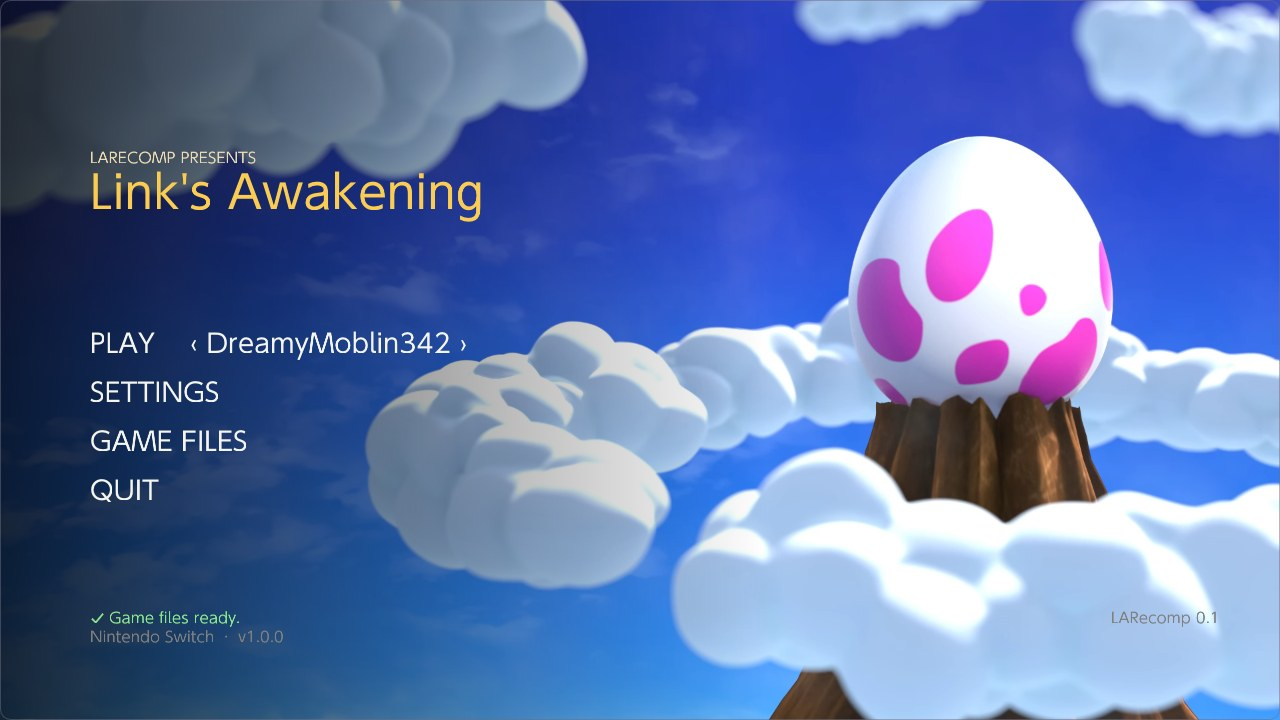
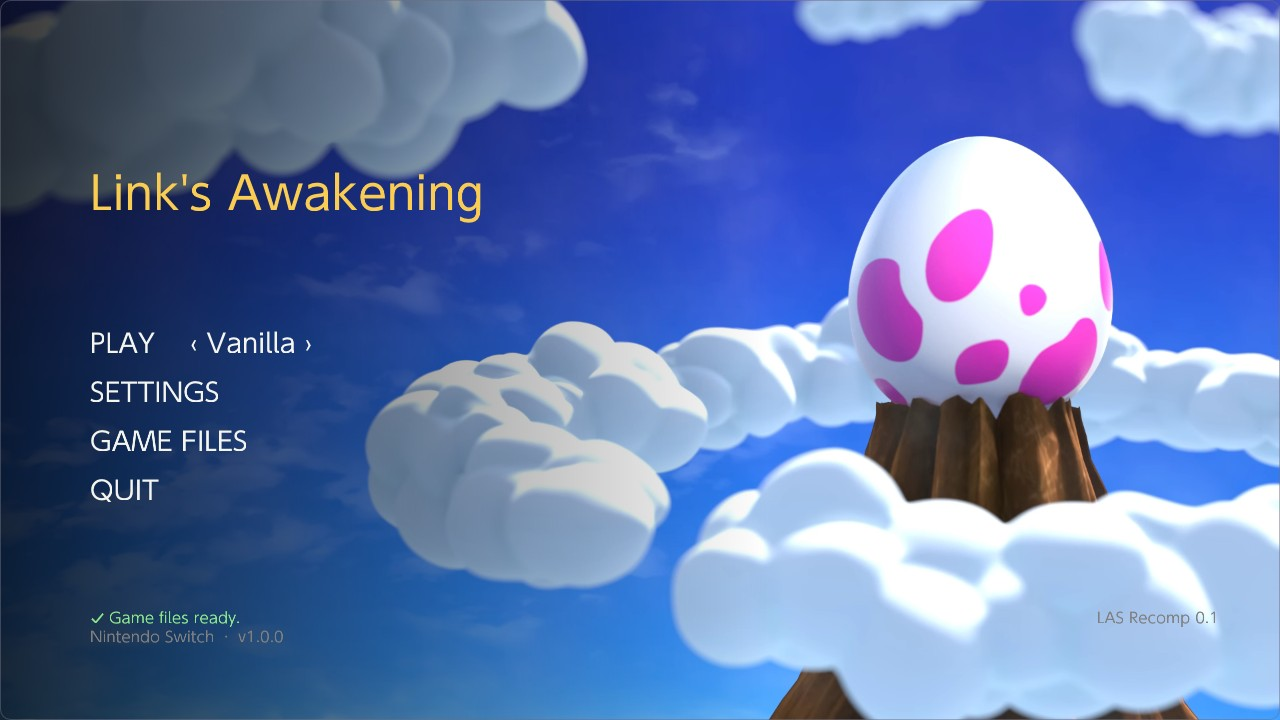
README update, MIT license, new start screen screenshot, MetalFX default on macOS

diff --git a/runtime/settings.c b/runtime/settings.c
@@ -24,6 +24,9 @@ Settings g_settings = {
     .inv_keys = true,
     .tracker = true,
     .diff_damage = 1.0f,
+#ifdef __APPLE__
+    .upscaler = UPSCALE_METALFX,  // (MetalFX on macOS by default)
+#endif
 };
 
 void settings_load(void) {

diff --git a/README.md b/README.md
@@ -9,10 +9,12 @@
 > As with anything on the internet, you run the code at your own discretion.
 
 **LAS Recomp** is a static recompilation of *The Legend of Zelda: Link's Awakening* (Nintendo Switch, 2019) into a
-native desktop application. The game's original program is translated ahead of time into C and compiled for your
-computer, so it runs natively - no emulator - with its own renderer, audio, input and a built-in randomizer.
+native Windows and macOS application.
 
-Currently it runs on **macOS (Apple Silicon Only, Metal)** and **Windows x86_64**, Windows on ARM and Linux releases are planned.
+> [!NOTE]
+> Currently supported Platforms:
+> macOS - Apple Silicon Only, Metal Graphics Backend + MetalFX
+> Windows - x86 Only, Vulkan Graphics Backend
 
 ![Mabe Village in a 21:9 window: the unlocked aspect ratio shows more of the island](docs/ultrawide.jpg)
 
@@ -25,26 +27,51 @@ Currently it runs on **macOS (Apple Silicon Only, Metal)** and **Windows x86_64*
 
 ![The start screen: choose vanilla or a randomizer seed, set up your game files, settings](docs/start_screen.jpg)
 
-## Features
-
-**Runs natively**
-- 60 fps, any window size and resolution, fullscreen
-- **Unlocked aspect ratio**: wider (or taller) windows show more of the island, up to ultrawide; houses and dungeons
-  keep their framing. The original 16:9 framing is one option away.
-- Start screen: play vanilla or any randomizer seed, set up game files from your own dump, import fonts
-- In-game overlay menu (F1, or Minus + Plus on a controller): display, audio, save editor, randomizer, warp, cheats,
-  difficulty presets, controls - and back to the title screen
-- Keyboard and controller support
-
-**Randomizer** (built on top of [LAS-Randomizer](https://github.com/Owen-Splat/LAS-Randomizer))
-- Generate and play seeds without leaving the game; spoiler log and readable walkthrough viewer, check tracker on
-  the map, inventory overlay with every dungeon's keys
-- Randomizer Options go here.
+## Project Discord
+https://discord.gg/DhrgdYqdcY
 
 ## Status
 
-Work in progress. The game is playable from start to finish; rough edges remain, and the generated dungeons are
-experimental. The running development log - every finding, fix and plan - is [`notes/PLAN.md`](notes/PLAN.md).
+This is a 0.1 alpha release. That means bug are likely, crashes could occur, randomizer seeds could possibly be unsolvable (dungeon room shuffle modes are especially experimental at this point), some graphics issue remain (especially in wide and ultrawide aspect ratios), this is a work in progress thus the alpha designation. Please use the Discord for discussing possible randomizer logic issues and submitting bug reports.
+
+## Features
+
+**Runs natively**
+- **This is not emulation.** Runs native on Windows and macOS using static recompilation of the switch code. 
+- Unlocked aspect ratio: wider (or taller) windows show more of the island, up to ultrawide; houses and dungeons
+  keep their framing. The original 16:9 framing is one option away.
+- Start screen: play vanilla or any randomizer seed, set up game files from your own dump, import fonts.
+- -Switch games use fonts built into the Switch operating system for some text. Some sensible replacements were picked but optionally you may setup the Switch fonts for an authentic look. Switch fonts are Nintendo IP, you must provide them from your own hardware.
+- In-game overlay menu (F1, or Minus + Plus on a controller)
+- Keyboard and controller support
+- Apple MetalFX upscaler for macOS builds. Default.
+- Internal resolution adjustments. Pick how high you want the resolution to be or cut it down, match the display and dynamic resolution options. When combined with the MetalFX upscaler on Macs even a Macbook Air should be able to handle this easily with the right settings. Bilenear upscaling is the only option on Windows currently.
+
+**Randomizer**
+- In game seed generator.
+- Seed system for sharing or reproducing exact seeds.
+- Per seed save games
+- Full item shuffle.
+- Trade Quest shuffle.
+- Disable Acorn/Piece of Power drops.
+- Bombs / Magic Powder shuffle.
+- Environment Randomizer - Randomizes in game environmental effects.
+- Music Randomizer
+- Potsanity - Every pot is a check. Pots are golden until checks so you visibly know what pots you've checked.
+- Bushsanity - Every single cuttable bush (not the grass) is a check. Like pots bushes are golden until checked for the first time.
+- Digsanity - A truly insane setting which makes every diggable tile on the overworld a check, holes stay dug permanently so you know where you've dug. Made for shovel enthusiasts. 
+- Keysanity - Keys can be found anywhere for any dungeon.
+- Shopsanity - Every item in the shop shuffled. Random prices, or just steal it.
+- Trendsantiy - Full Trendy Game randomization
+- Pets - Ghost, Marin (unlocks Dessert, open dessert an option and Marin not in the pool), Rooster (In Logic for Feather checks, including in dungeons if enabled), Ghost (Find the Ghost drop to unlock grave check)
+- Entrance Randomizer - Shuffles all entrances. Includes a decoupled option.
+- Dungeon Room Shuffler - Shuffles all dungeon rooms creating unique custom dungeons every seed. Three modes:
+- -Coherent: Dungeon rooms are shuffled but connecting rooms are lined up, to make this work in logic dungeons use duplicate rooms sometimes (as little as possible) to maintain a workable logical dungeon.
+- -Chaos: Dungeon rooms are shuffled but don't need to make sense. Walking north may lead you to door from another direction.
+- -Madness: Dungeon rooms are shuffled in a way that doesn't need to make sense AND are uncoupled creating nightmares to navigate.
+- -Optionally the map can show what's connected to what as you explore or in full when you find the in game map.
+- Inventory screen tracks keys and trade items for individual dungeons so you can see at a glance what you have keys for or what trade items you have. 
+- Built in check tracker on overworld map (optional)
 
 ## Building from source
 
@@ -65,16 +92,14 @@ Requirements (macOS on Apple Silicon): Xcode command line tools (clang), [Homebr
 changes) in `third_party/LAS-Randomizer` under the MIT license. Huge thanks to its authors and community:
 - **Owen_Splat** - LAS-Randomizer (https://github.com/Owen-Splat/LAS-Randomizer)
 - **Glan** - created the original early builds of the randomizer (https://github.com/la-switch/LAS-Randomizer)
-- **j_im** - created the original tracker for the randomizer
-- **Br00ty** - maintains and updates the tracker
 - **ProfessorLaw** - additional programming
-- **theboy181** - blur removal patch
 - and everyone who has reported bugs, given feedback or contributed to LAS-Randomizer
 
 **Libraries and tools**
 - [SDL 3](https://libsdl.org) - windowing, input, audio (zlib license)
 - [FFmpeg](https://ffmpeg.org) - movie playback (LGPL)
 - [Dear ImGui](https://github.com/ocornut/imgui) - overlay menu and start screen (MIT)
+- [Vulkan Memory Allocator](https://github.com/GPUOpen-LibrariesAndSDKs/VulkanMemoryAllocator) - Windows renderer (MIT)
 - [hactool](https://github.com/SciresM/hactool) by SciresM - game file extraction (ISC)
 - [oead](https://github.com/zeldamods/oead) and [evfl](https://github.com/zeldamods/evfl) - Nintendo file formats, used by LAS-Randomizer
 - [Capstone](https://www.capstone-engine.org) - disassembly in the development tools
@@ -87,4 +112,10 @@ LAS Recomp is a fan project. It is not affiliated with, endorsed by or sponsored
 and *Link's Awakening* are trademarks of Nintendo. No Nintendo code or assets are distributed in this repository;
 you must provide your own legally obtained copy of the game to play. 
 
-A license for LAS Recomp's own code has not been chosen yet. Third-party components keep their own licenses.
+## License
+
+LAS Recomp's own code (the recompiler tools, the runtime, the randomizer additions) is open source under the
+[MIT License](LICENSE). Third-party components keep their own licenses: LAS-Randomizer (MIT), Dear ImGui (MIT),
+Vulkan Memory Allocator (MIT), SDL 3 (zlib), FFmpeg (LGPL 2.1+, linked dynamically), hactool (ISC), oead / evfl (used by
+the randomizer's Python environment, under their own licenses). The license covers LAS Recomp's code only - it grants
+nothing for Nintendo's game, which you must supply yourself.
